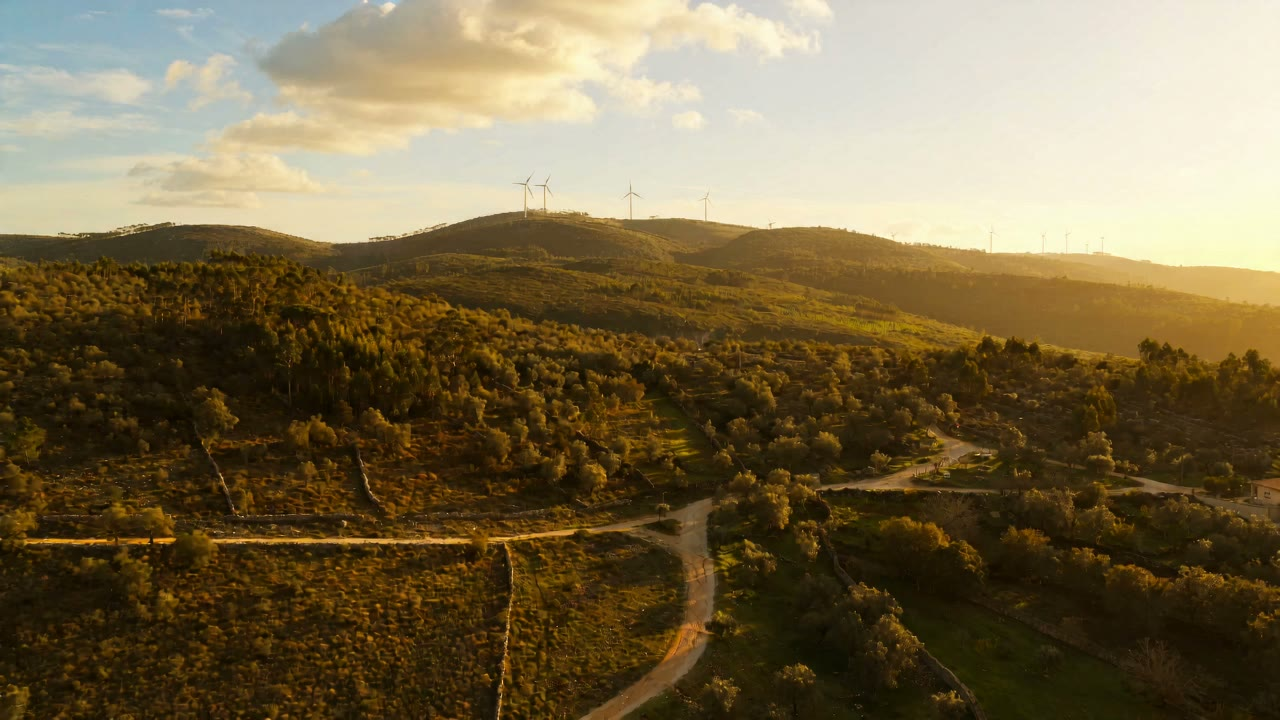
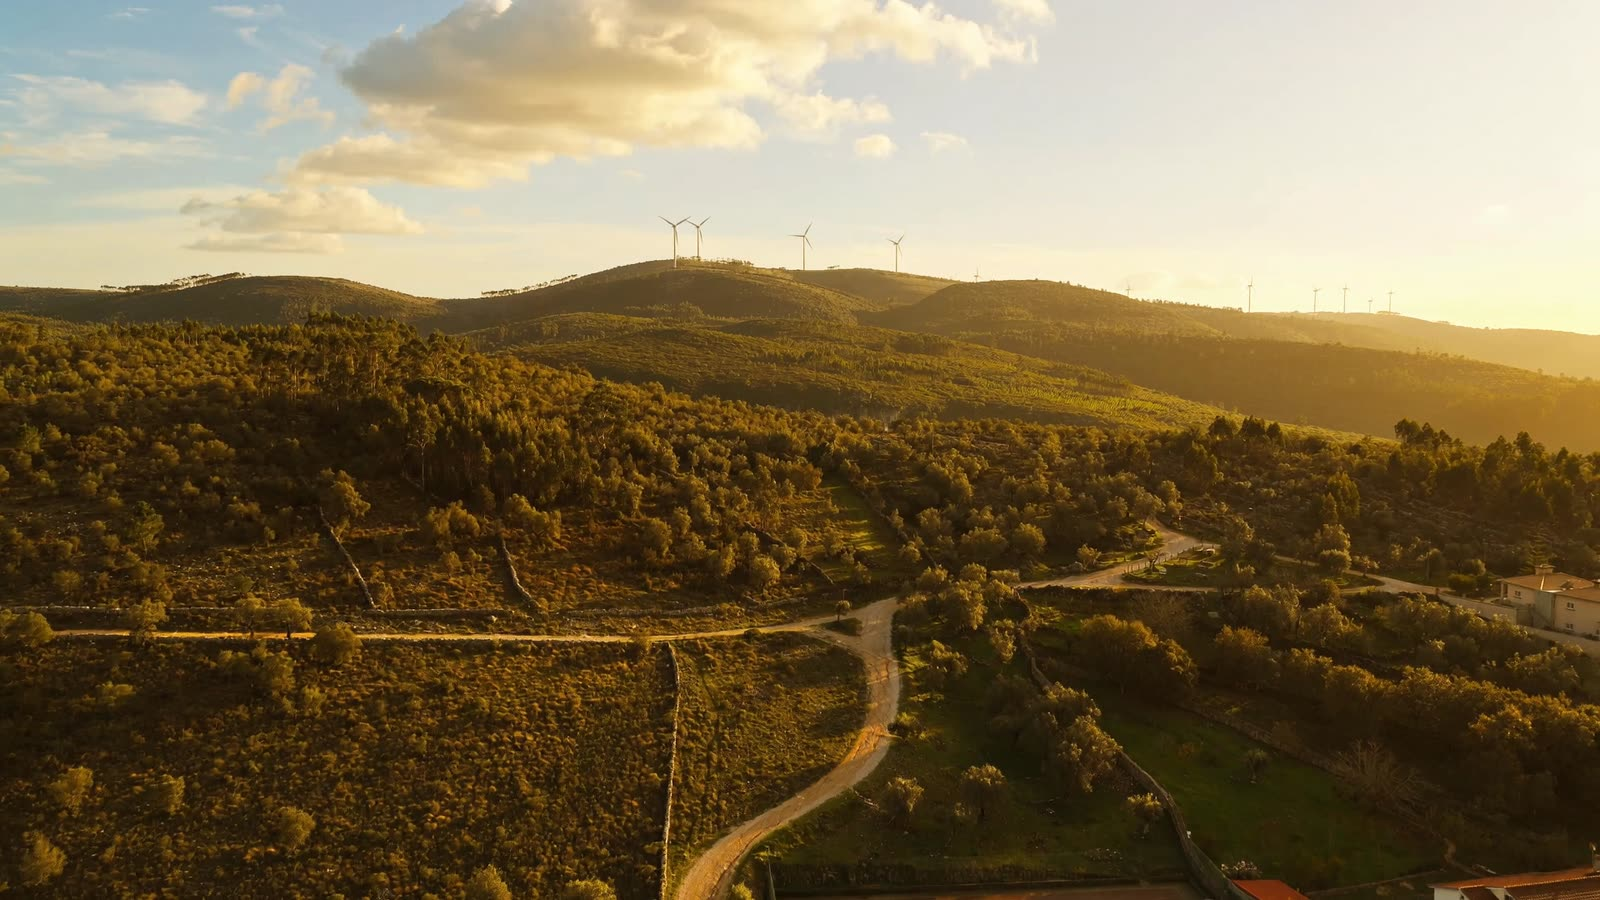
Substituir vídeo do hero

diff --git a/scroll-cinematic.js b/scroll-cinematic.js
@@ -1,12 +1,12 @@
 /* ============================================================
    PIXEL MOTION — motor v2
-   Canvas frame-scrub + Lenis + interações do site.
+   Vídeo no hero + canvas frame-scrub + Lenis + interações do site.
    Mobile (<768px): carrega 1 em cada 2 frames (Map esparso).
    Sem frames em /frames/<secção>/ → fallback CSS automático.
    ============================================================ */
 
 const SCRUB_SECTIONS = [
-  { section: '#hero', frameCount: 140, framePath: (i) => `frames/hero/frame_${String(i).padStart(4, '0')}.webp` },
+  { section: '#hero', video: true },
   { section: '#ia',   frameCount: 159, framePath: (i) => `frames/ia/frame_${String(i).padStart(4, '0')}.jpg` },
 ];
 
@@ -25,6 +25,7 @@ class Scrubber {
     this.el = document.querySelector(cfg.section);
     if (!this.el) return;
     this.canvas = this.el.querySelector('canvas.scrub-canvas');
+    this.video = cfg.video ? this.el.querySelector('video.scrub-video') : null;
     this.cfg = cfg;
     this.frames = new Map(); // índice 1-based → Image (esparso em mobile)
     this.lastIndex = -1;
@@ -50,6 +51,16 @@ class Scrubber {
   }
 
   probe() {
+    if (this.video) {
+      this.el.classList.add('has-video');
+      if (REDUCED) {
+        this.video.removeAttribute('autoplay');
+        this.video.pause();
+      } else {
+        this.video.play().catch(() => {});
+      }
+      return;
+    }
     const test = new Image();
     test.onload = () => this.preloadAll();
     test.onerror = () => this.el.classList.add('no-frames');

diff --git a/index.html b/index.html
@@ -26,7 +26,7 @@
   <link rel="preconnect" href="https://fonts.googleapis.com">
   <link rel="preconnect" href="https://fonts.gstatic.com" crossorigin>
   <link href="https://fonts.googleapis.com/css2?family=Archivo:wght@800;900&family=Schibsted+Grotesk:wght@400;500;700&family=JetBrains+Mono:wght@400;500&display=swap" rel="stylesheet">
-  <link rel="stylesheet" href="styles.css?v=20260718-5">
+  <link rel="stylesheet" href="styles.css?v=20260719-1">
   <script type="application/ld+json">
   {
     "@context": "https://schema.org",
@@ -81,11 +81,13 @@
   </nav>
 </header>
 
-<!-- ============ 1. HERO (scroll-scrub: frames/hero/ — prado→metrópole) ============ -->
+<!-- ============ 1. HERO (vídeo: território → metrópole) ============ -->
 <section id="hero" class="scrub-section">
   <div class="stage">
     <div class="scrub-fallback"></div>
-    <canvas class="scrub-canvas"></canvas>
+    <video class="scrub-video" autoplay muted loop playsinline preload="auto" poster="assets/hero-poster.jpg" aria-hidden="true">
+      <source src="assets/hero-motion.mp4" type="video/mp4">
+    </video>
     <div class="scrub-veil"></div>
 
     <div class="hero-content" data-scrub="0,0.14">

diff --git a/styles.css b/styles.css
@@ -282,6 +282,11 @@ form.is-sent + .form-success { display: block; }
 .scrub-section .stage { position: sticky; top: 0; height: 100vh; overflow: hidden; }
 .scrub-canvas { position: absolute; inset: 0; width: 100%; height: 100%; opacity: 0; transition: opacity .6s ease; }
 .scrub-section.has-frames .scrub-canvas { opacity: 1; }
+.scrub-video {
+  position: absolute; inset: 0; width: 100%; height: 100%; object-fit: cover; object-position: center;
+  opacity: 0; transition: opacity .6s ease; background: var(--dark);
+}
+.scrub-section.has-video .scrub-video { opacity: 1; }
 .scrub-fallback {
   position: absolute; inset: 0;
   background: